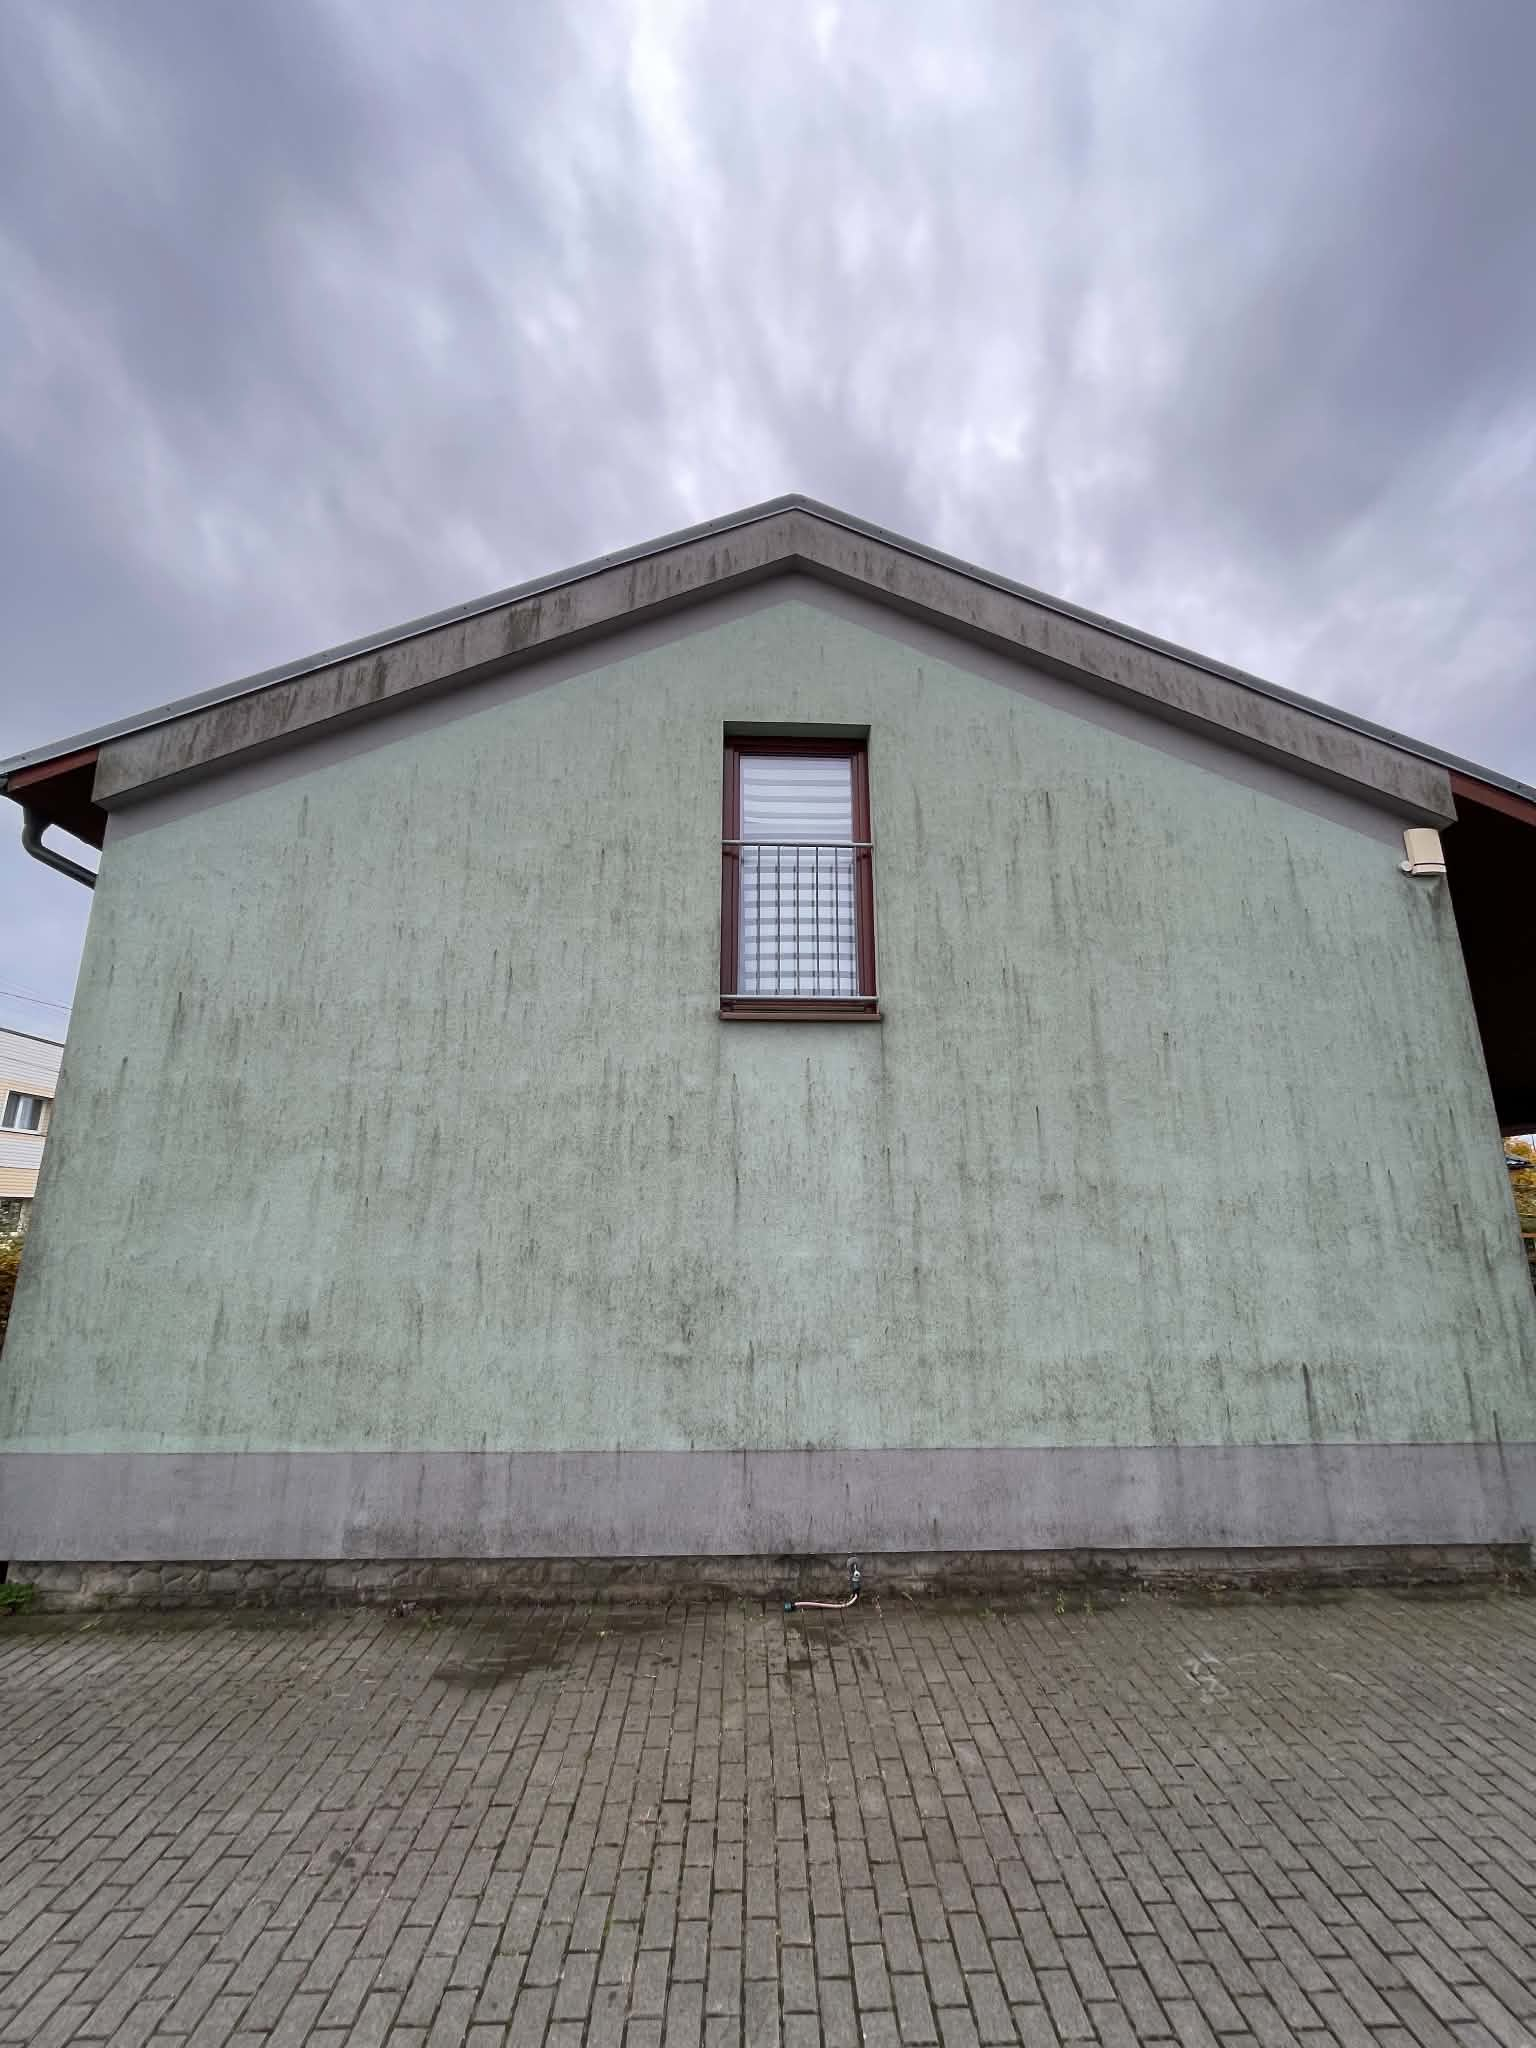
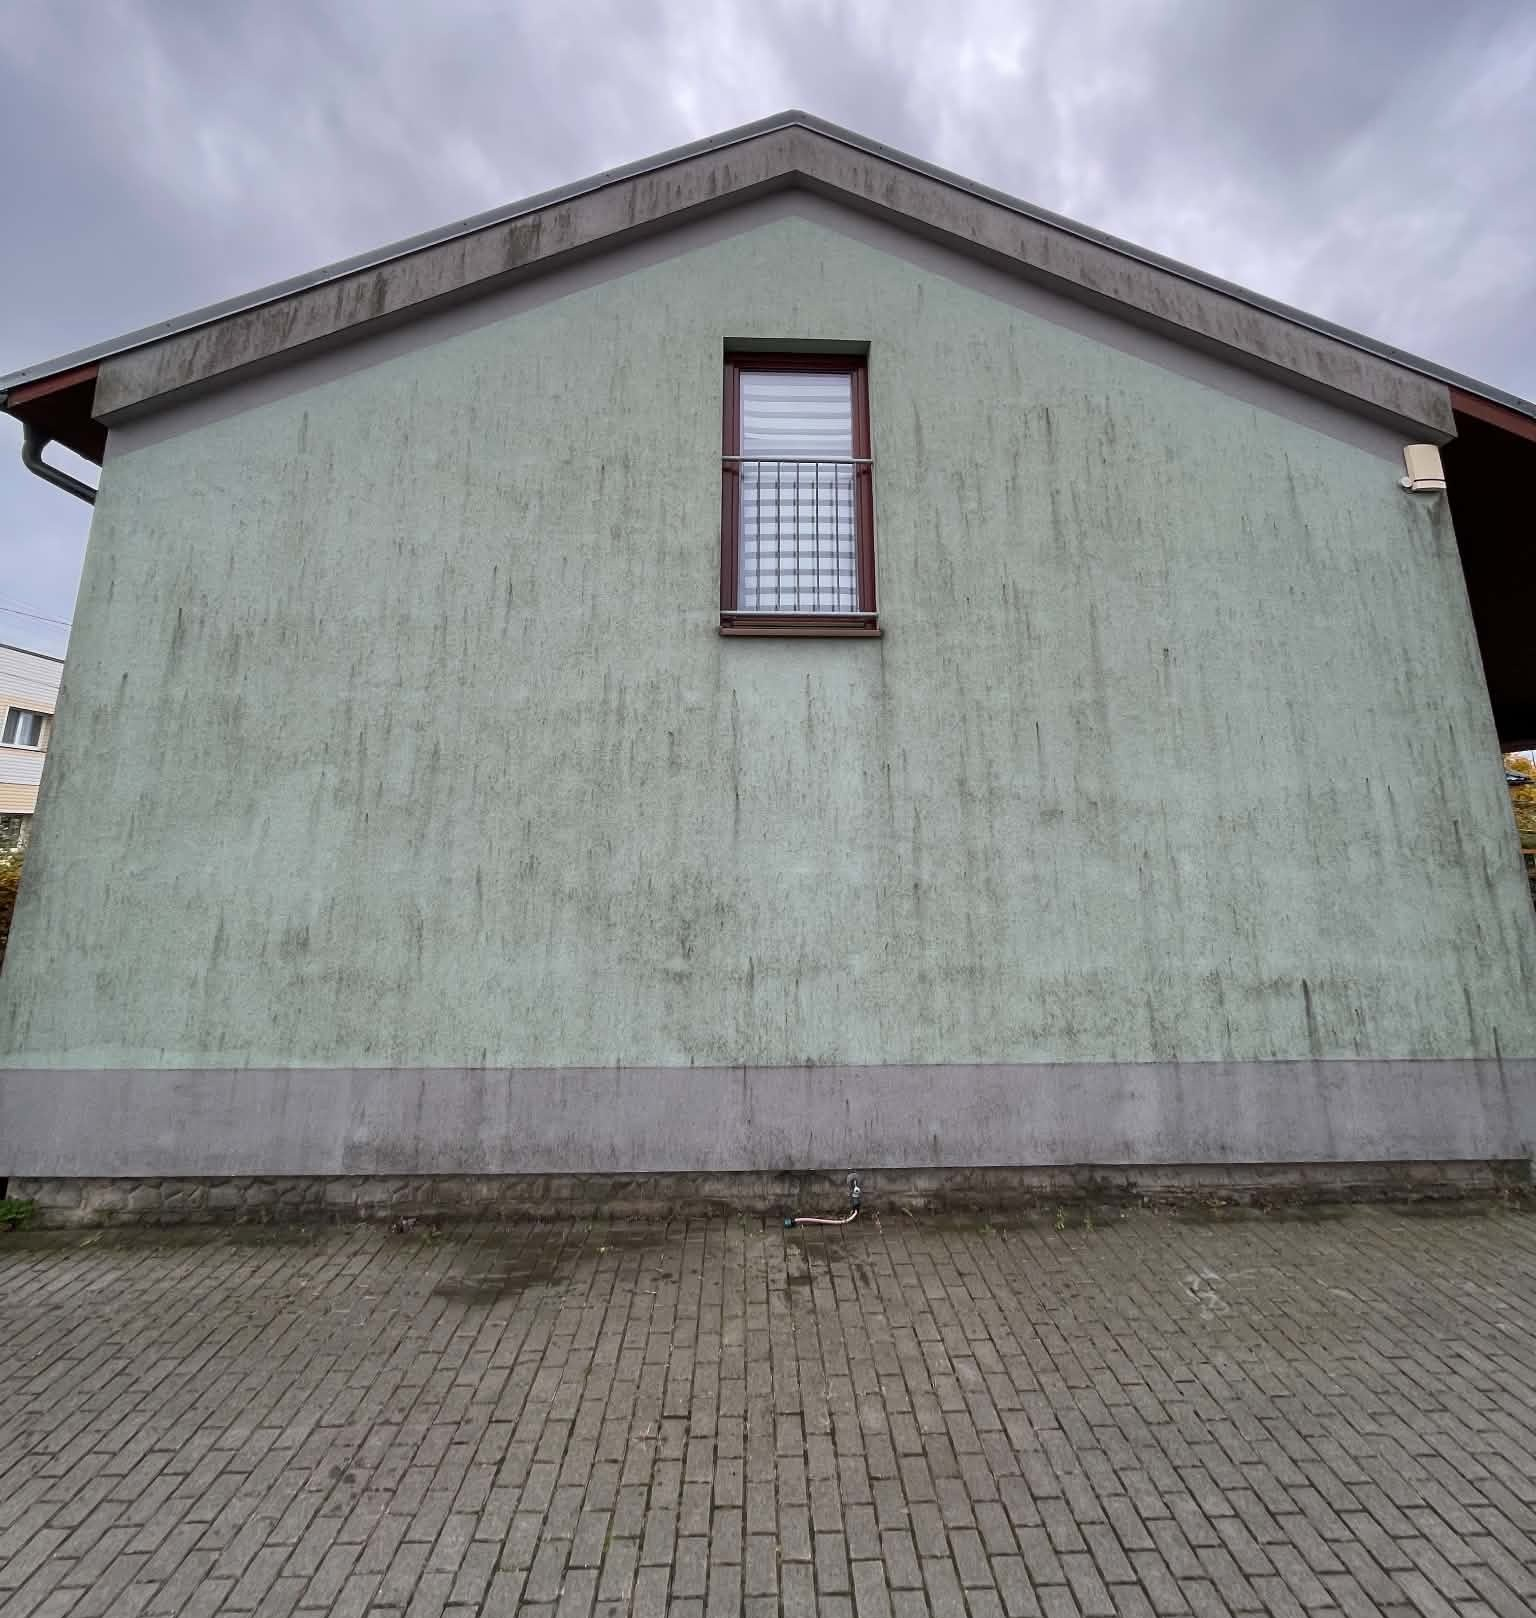
nove fotky a cena na 80kc

diff --git a/index.html b/index.html
@@ -273,7 +273,7 @@
                         <h3>Tlakové mytí dlažeb a fasád</h3>
                         <p class="service-note">Cena se odvíjí od typu povrchu, míry znečištění, použití impregnačních přípravků a dostupnosti.</p>
                         <ul class="service-price-list" style="padding-top: 2%;">
-                            <li><strong>Fasády a dlažby čistíme již od</strong> 70 Kč/m²</li>
+                            <li><strong>Fasády a dlažby čistíme již od</strong> 80 Kč/m²</li>
                             <li><strong>Cena impregnace: </strong>30 Kč/m².</li>
                         </ul>
                         
@@ -348,6 +348,28 @@
                 </div>
 
                 <div class="gallery-grid">
+                    <figure class="ba-card" data-compare>
+                        <img class="gallery-photo" src="galerie/14a.jpg" alt="Fasáda domu se střešními okny po vyčištění" loading="lazy">
+                        <div class="ba-before">
+                            <img class="gallery-photo" src="galerie/14b.jpg" alt="Fasáda domu se střešními okny před čištěním" loading="lazy">
+                        </div>
+                        <span class="ba-handle" aria-hidden="true"></span>
+                        <span class="ba-tag ba-tag-before">Před</span>
+                        <span class="ba-tag ba-tag-after">Po</span>
+                        <input class="ba-range" type="range" min="0" max="100" value="50" step="1" aria-label="Porovnání před a po – fasáda domu se střešními okny">
+                    </figure>
+
+                    <figure class="ba-card" data-compare>
+                        <img class="gallery-photo" src="galerie/13a.jpg" alt="Fasáda bytového domu po vyčištění" loading="lazy">
+                        <div class="ba-before">
+                            <img class="gallery-photo" src="galerie/13b.jpg" alt="Fasáda bytového domu před čištěním" loading="lazy">
+                        </div>
+                        <span class="ba-handle" aria-hidden="true"></span>
+                        <span class="ba-tag ba-tag-before">Před</span>
+                        <span class="ba-tag ba-tag-after">Po</span>
+                        <input class="ba-range" type="range" min="0" max="100" value="50" step="1" aria-label="Porovnání před a po – fasáda bytového domu">
+                    </figure>
+
                     <figure class="ba-card" data-compare>
                         <img class="gallery-photo" src="galerie/12a.jpg" alt="Střecha se střešním oknem po vyčištění" loading="lazy">
                         <div class="ba-before">
